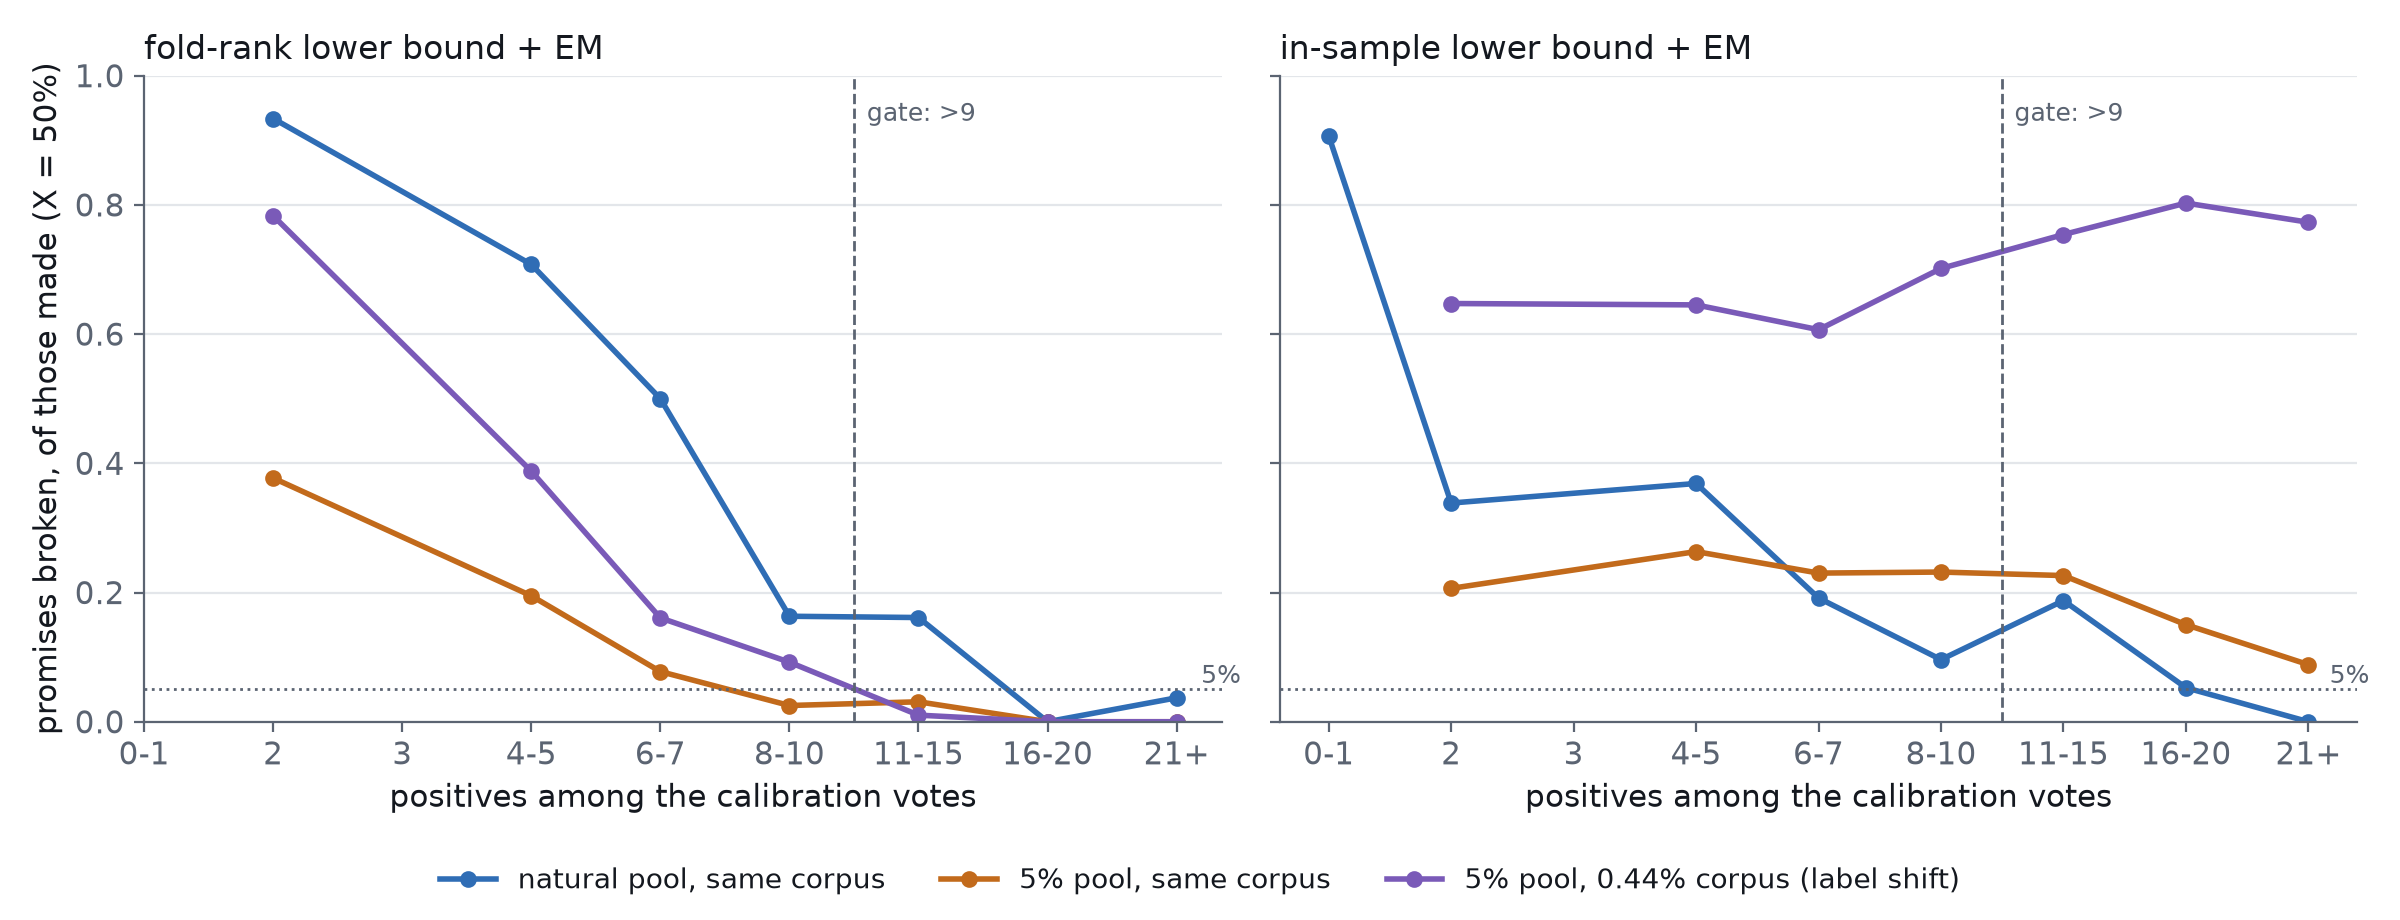
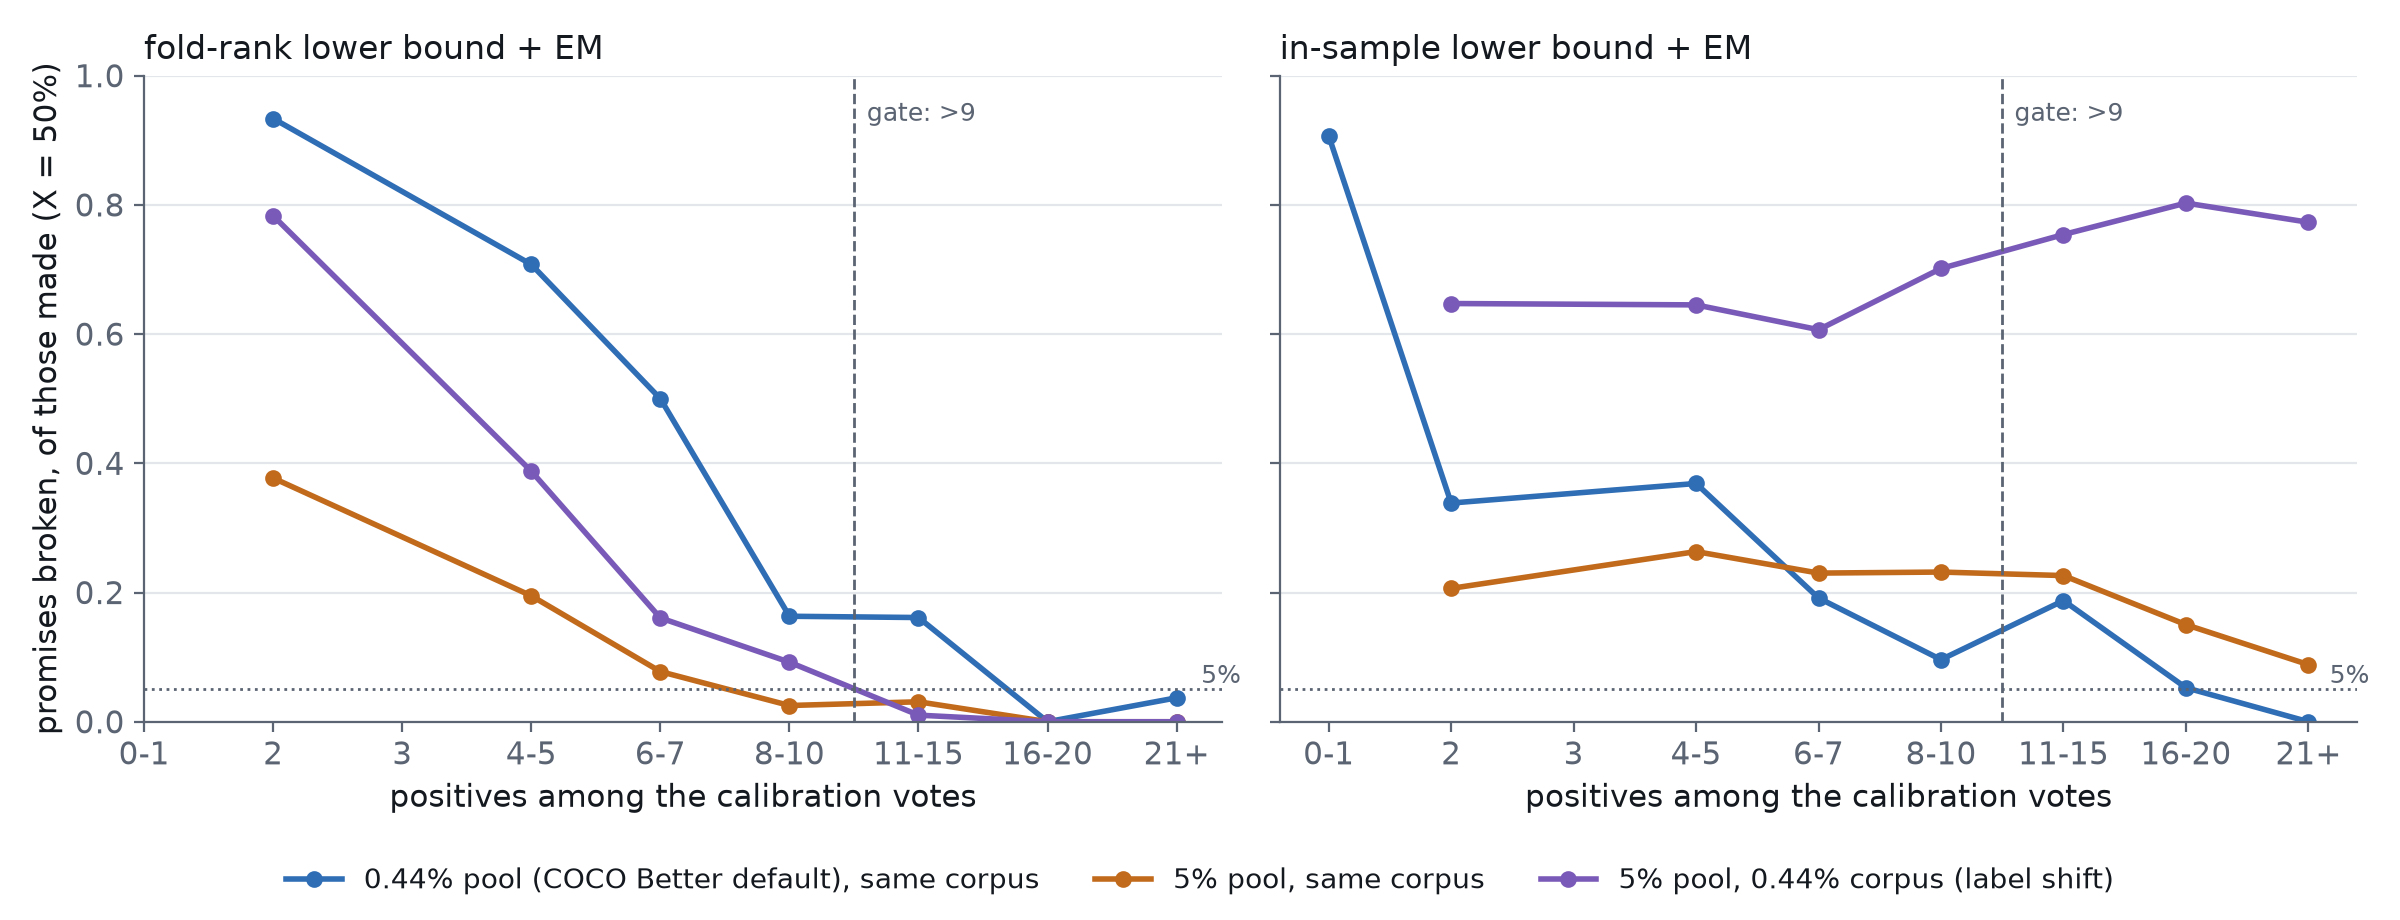
#4220: name the pool by its prevalence, not "natural"
0.44% is COCO Better's default - one setting of a curated benchmark,
not how users' worlds look. The report, both figure legends and the
figure script now say "0.44% (COCO Better's default)"; the arm's
directory name stays as an identifier.

Claude-Session: https://claude.ai/code/session_01CjJ37UQJgRrPQpBhy8EuPs
(cherry picked from commit 7fff65aac50c5460c93aa6a2336bc0572bed0714)

Changed region(s): [[0.125, 0.9435, 0.875, 0.9739]]

diff --git a/scripts/experiments/calibration/figure_pframes_4220.py b/scripts/experiments/calibration/figure_pframes_4220.py
@@ -6,7 +6,7 @@
   calibration folds hold, for
   the fold-rank and in-sample lower bounds with EM, per scenario;
 * ``calibration_positives.png`` - how many calibration positives today's app
-  has at each checkpoint, natural pool against the 5% pool, with the gate the
+  has at each checkpoint, 0.44% pool (COCO Better default) against the 5% pool, with the gate the
   report recommends.
 
     python figure_pframes_4220.py [--study DIR]
@@ -29,7 +29,7 @@ STUDY = REPO / "docs" / "experiments" / "2026-09-28-precision-frames-4220"
 INK, SOFT, GRID = "#14181f", "#5b6472", "#e3e6ea"
 #: Validated with the dataviz skill's checker (light surface): all checks pass.
 SERIES = {
-    ("natural", "same"): ("natural pool, same corpus", "#2F6DB5"),
+    ("natural", "same"): ("0.44% pool (COCO Better default), same corpus", "#2F6DB5"),
     ("h0.05", "same"): ("5% pool, same corpus", "#C26A1B"),
     ("h0.05", "shifted"): ("5% pool, 0.44% corpus (label shift)", "#7A5AB8"),
 }
@@ -93,7 +93,10 @@ def trust(study: Path) -> Path:
 def positives(study: Path) -> Path:
     rows = list(csv.DictReader((study / "fig_calpos.csv").open()))
     fig, ax = plt.subplots(figsize=(8, 4.2))
-    for arm, label, color in (("natural", "natural pool (0.44%)", "#2F6DB5"), ("h0.05", "5% pool", "#C26A1B")):
+    for arm, label, color in (
+        ("natural", "0.44% pool (COCO Better default)", "#2F6DB5"),
+        ("h0.05", "5% pool", "#C26A1B"),
+    ):
         ts = sorted({int(r["t"]) for r in rows})
         med, q1, q3 = [], [], []
         for t in ts:

diff --git a/docs/experiments/2026-09-28-precision-frames-4220/REPORT.md b/docs/experiments/2026-09-28-precision-frames-4220/REPORT.md
@@ -8,13 +8,13 @@ votes it has. The one estimator that keeps its promise in every scenario takes
 the calibration folds' held-out votes, transfers them to the final model by
 rank, fits a logistic P(positive | score), cuts at a bootstrap lower bound, and
 re-estimates the corpus prior by EM. Gated on ≥10 positives among the
-calibration votes, it breaks **6%** of its X = 50% promises on the natural pool,
+calibration votes, it breaks **6%** of its X = 50% promises on the 0.44% pool,
 **1%** on a 5% pool, and **3%** when the corpus is poorer than the pool it was
-calibrated on. Ungated, it breaks **83%** on the natural pool. The in-sample
+calibrated on. Ungated, it breaks **83%** on the 0.44% pool. The in-sample
 estimator is never safe: it breaks 9–16% of its promises when gated, and **77%**
 under label shift. Even when it keeps its promise, the safe estimator is
 **timid**. Gated at X = 50% it recovers 0.55 recall where the best cut on the
-same model reaches 0.95 (natural pool), and 0.23 against 0.84 on the 5% pool.
+same model reaches 0.95 (0.44% pool), and 0.23 against 0.84 on the 5% pool.
 
 Follows #4223 (the ruling) and #4224 (the feasibility sim). It feeds #4221 (the
 rule) and #4222 (the harvest this depends on). Plan fixed before the first
@@ -23,7 +23,7 @@ result: #4220, comment of 2026-09-28.
 ## What was run
 
 - **Today's app (r7), unchanged,** on all 720 COCO Better cells (144 class@band
-  cells × 5 seeds, SigLIP, binary voting, 150 votes). It ran at the natural pool
+  cells × 5 seeds, SigLIP, binary voting, 150 votes). It ran at COCO Better's default pool
   (0.44% positive) and at the #4201 5% haystack arm.
 - **Precision frames** (`CALIB_PFRAME_STEPS=25,50,100,150`) at each checkpoint.
   - What the app has: its pool's final-model scores, each voted item's
@@ -41,7 +41,7 @@ result: #4220, comment of 2026-09-28.
     10th-percentile bootstrap lower bound, with or without an EM re-estimate of
     the corpus prior.
 - **Scenarios.**
-  - *same*: the corpus has the voted pool's prevalence (the natural arm's test
+  - *same*: the corpus has the voted pool's prevalence (the 0.44% arm's test
     half, or the 5% arm's test half thinned to 5%).
   - *shifted*: the 5% arm's untouched 0.44% test half, i.e. a detector
     calibrated on a rich session and run over a poor corpus.
@@ -68,9 +68,9 @@ one. A frame that promises nothing can't break a promise, so it's left out.
 
 | scenario | estimator | gate (calibration positives) | frames past the gate | broken, of promises made, X=50% | promises made | recall / oracle at X=50% |
 |---|---|---|---|---|---|---|
-| natural, same | fold-rank | none | 100% | 83% | 63% | 0.46 / 0.43 |
-| natural, same | fold-rank | ≥10 | **5%** | **6%** | 92% | 0.55 / 0.95 |
-| natural, same | in-sample | ≥10 | 5% | 9% | 100% | 0.92 / 0.95 |
+| 0.44%, same | fold-rank | none | 100% | 83% | 63% | 0.46 / 0.43 |
+| 0.44%, same | fold-rank | ≥10 | **5%** | **6%** | 92% | 0.55 / 0.95 |
+| 0.44%, same | in-sample | ≥10 | 5% | 9% | 100% | 0.92 / 0.95 |
 | 5%, same | fold-rank | ≥10 | 43% | **1%** | 49% | 0.23 / 0.84 |
 | 5%, same | in-sample | ≥10 | 43% | 16% | 100% | 0.81 / 0.84 |
 | 5%, shifted | fold-rank | ≥10 | 43% | **3%** | 18% | 0.11 / 0.58 |
@@ -81,7 +81,7 @@ any cut on the same model could reach at X. A recall above the oracle's means
 the cut returned more than the floor allows: a broken promise. X = 25/75/90%
 and gates 0/5/10 are in `gate_table.csv`.
 
-A gate of 5 is not enough on the natural pool (18% of promises broken). EM
+A gate of 5 is not enough on the 0.44% pool (18% of promises broken). EM
 matters under label shift. Counted over all shifted frames, fold-rank's lower
 bound breaks its promise 7–31% of the time without EM and 4–11% with it,
 ungated. With EM and the gate, it breaks 3% of the promises it makes
@@ -93,10 +93,10 @@ ungated. With EM and the gate, it breaks 3% of the promises it makes
 
 | pool | calibration positives at vote 25 / 50 / 100 / 150 (mean) | frames with ≥10 at vote 150 |
 |---|---|---|
-| natural (0.44%) | 2.0 / 2.4 / 3.1 / 4.1 | 13% large, 8% medium, 9% small |
+| 0.44% (COCO Better's default) | 2.0 / 2.4 / 3.1 / 4.1 | 13% large, 8% medium, 9% small |
 | 5% | 4.0 / 6.7 / 13 / 20 | 89% large, 89% medium, 86% small |
 
-On the natural pool, today's app spends 150 votes and holds a median of **two**
+On the 0.44% pool, today's app spends 150 votes and holds a median of **two**
 positives in its calibration folds. The gate is a statement about the harvest,
 not about the estimator. **#4222 (asking about likely positives) is what turns
 this promise on.**
@@ -105,9 +105,9 @@ this promise on.**
 
 | pool | band | frames | broken, of all frames | nothing promised | recall / oracle |
 |---|---|---|---|---|---|
-| natural | large | 54 | 9% | 2% | 0.63 / 0.97 |
-| natural | medium | 37 | 3% | 11% | 0.46 / 0.96 |
-| natural | small | 35 | 3% | 14% | 0.51 / 0.91 |
+| 0.44% | large | 54 | 9% | 2% | 0.63 / 0.97 |
+| 0.44% | medium | 37 | 3% | 11% | 0.46 / 0.96 |
+| 0.44% | small | 35 | 3% | 14% | 0.51 / 0.91 |
 | 5%, same | large | 529 | 1% | 32% | 0.35 / 0.97 |
 | 5%, same | medium | 383 | 1% | 60% | 0.16 / 0.82 |
 | 5%, same | small | 315 | 1% | 70% | 0.11 / 0.67 |
@@ -119,7 +119,7 @@ Safety holds in every band. The timidity grows as objects shrink: on the 5%
 pool the rule promises nothing for 70% of small cells, where the oracle could
 still reach 0.67 recall.
 
-## Literal examples (natural pool, vote 150, fold-rank lower bound + EM, X = 50%)
+## Literal examples (0.44% pool, vote 150, fold-rank lower bound + EM, X = 50%)
 
 **Promises broken below the gate:**
 
@@ -155,7 +155,7 @@ where autopilot finds positives: skis, tennis racket, airplane, baseball bat.
 At vote 150, median precision of what each existing cut returns
 (`reference_cuts.csv`):
 
-| cut | natural | 5%, same | 5%, shifted |
+| cut | 0.44% | 5%, same | 5%, shifted |
 |---|---|---|---|
 | shipped | 2.0% | 34% | 4.2% |
 | `tau_gumbel_priorfree` | 1.6% | 85% | 30% |
